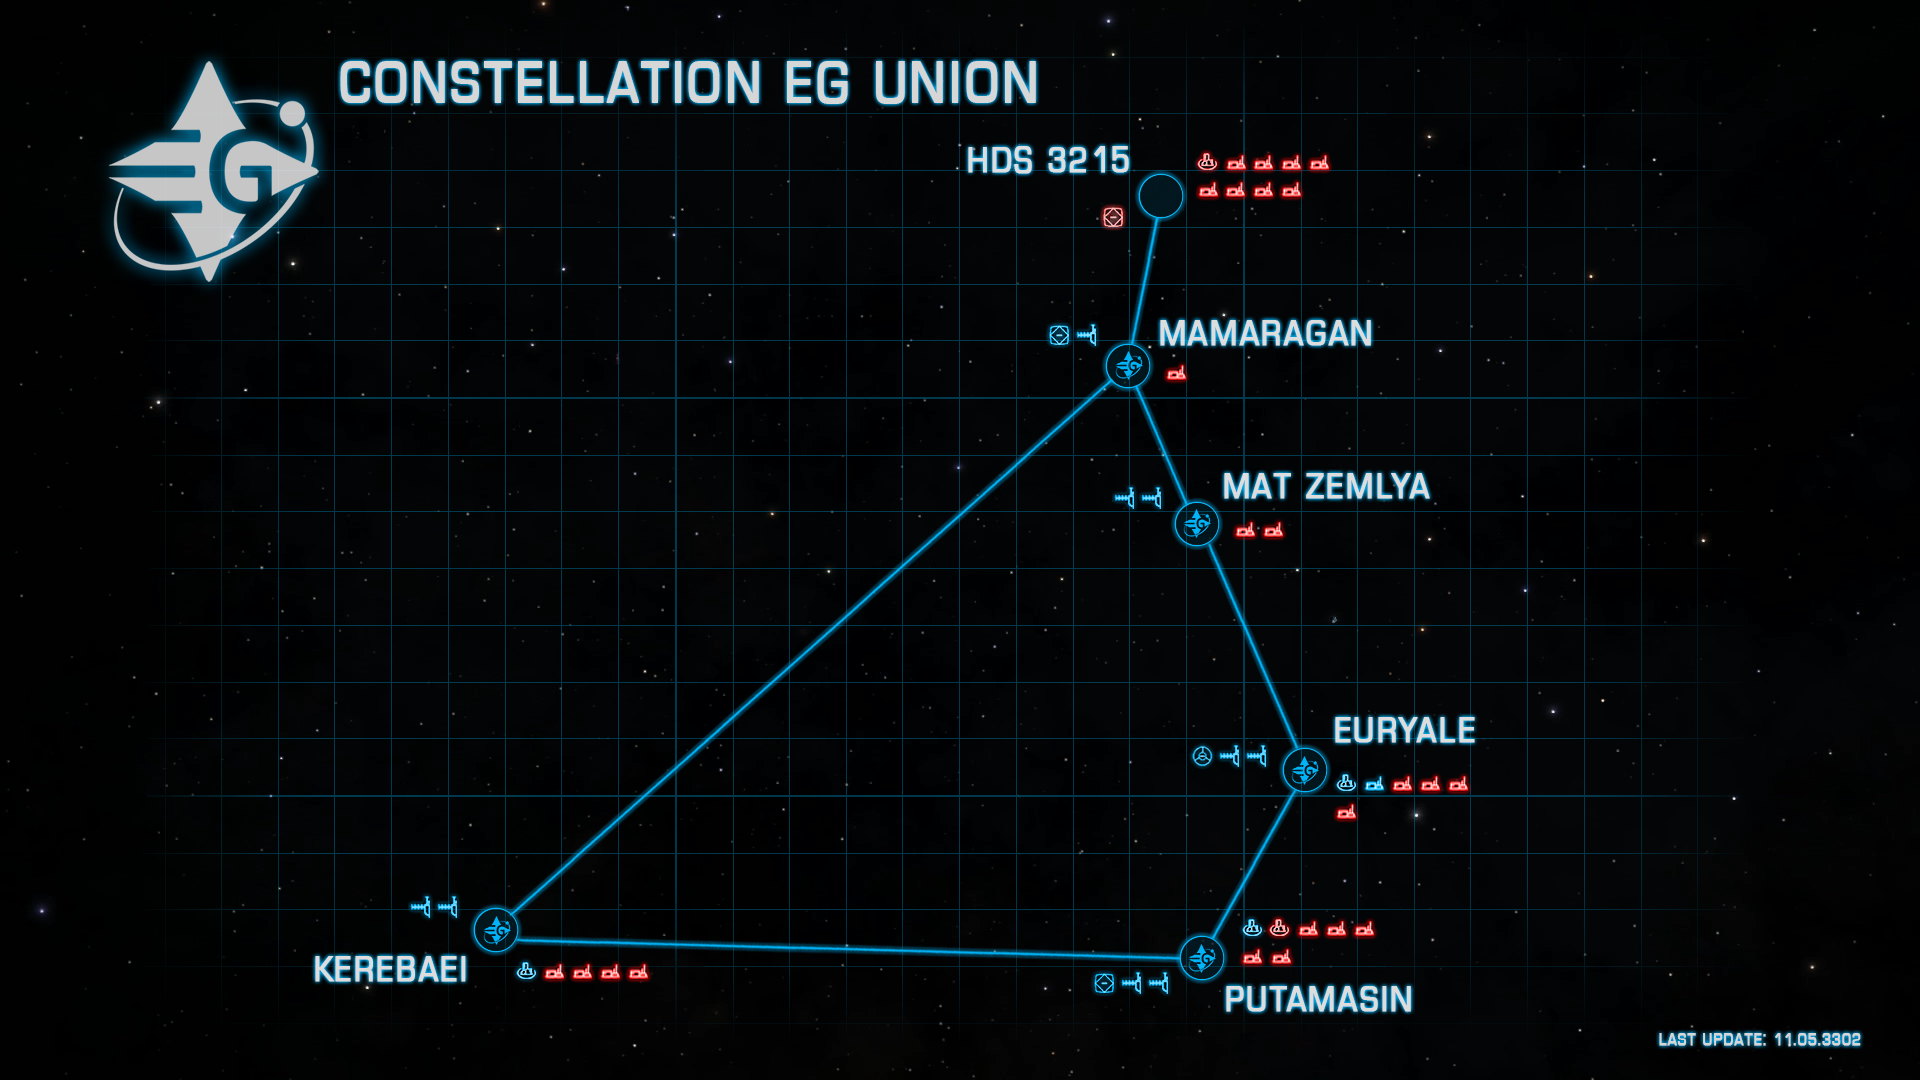
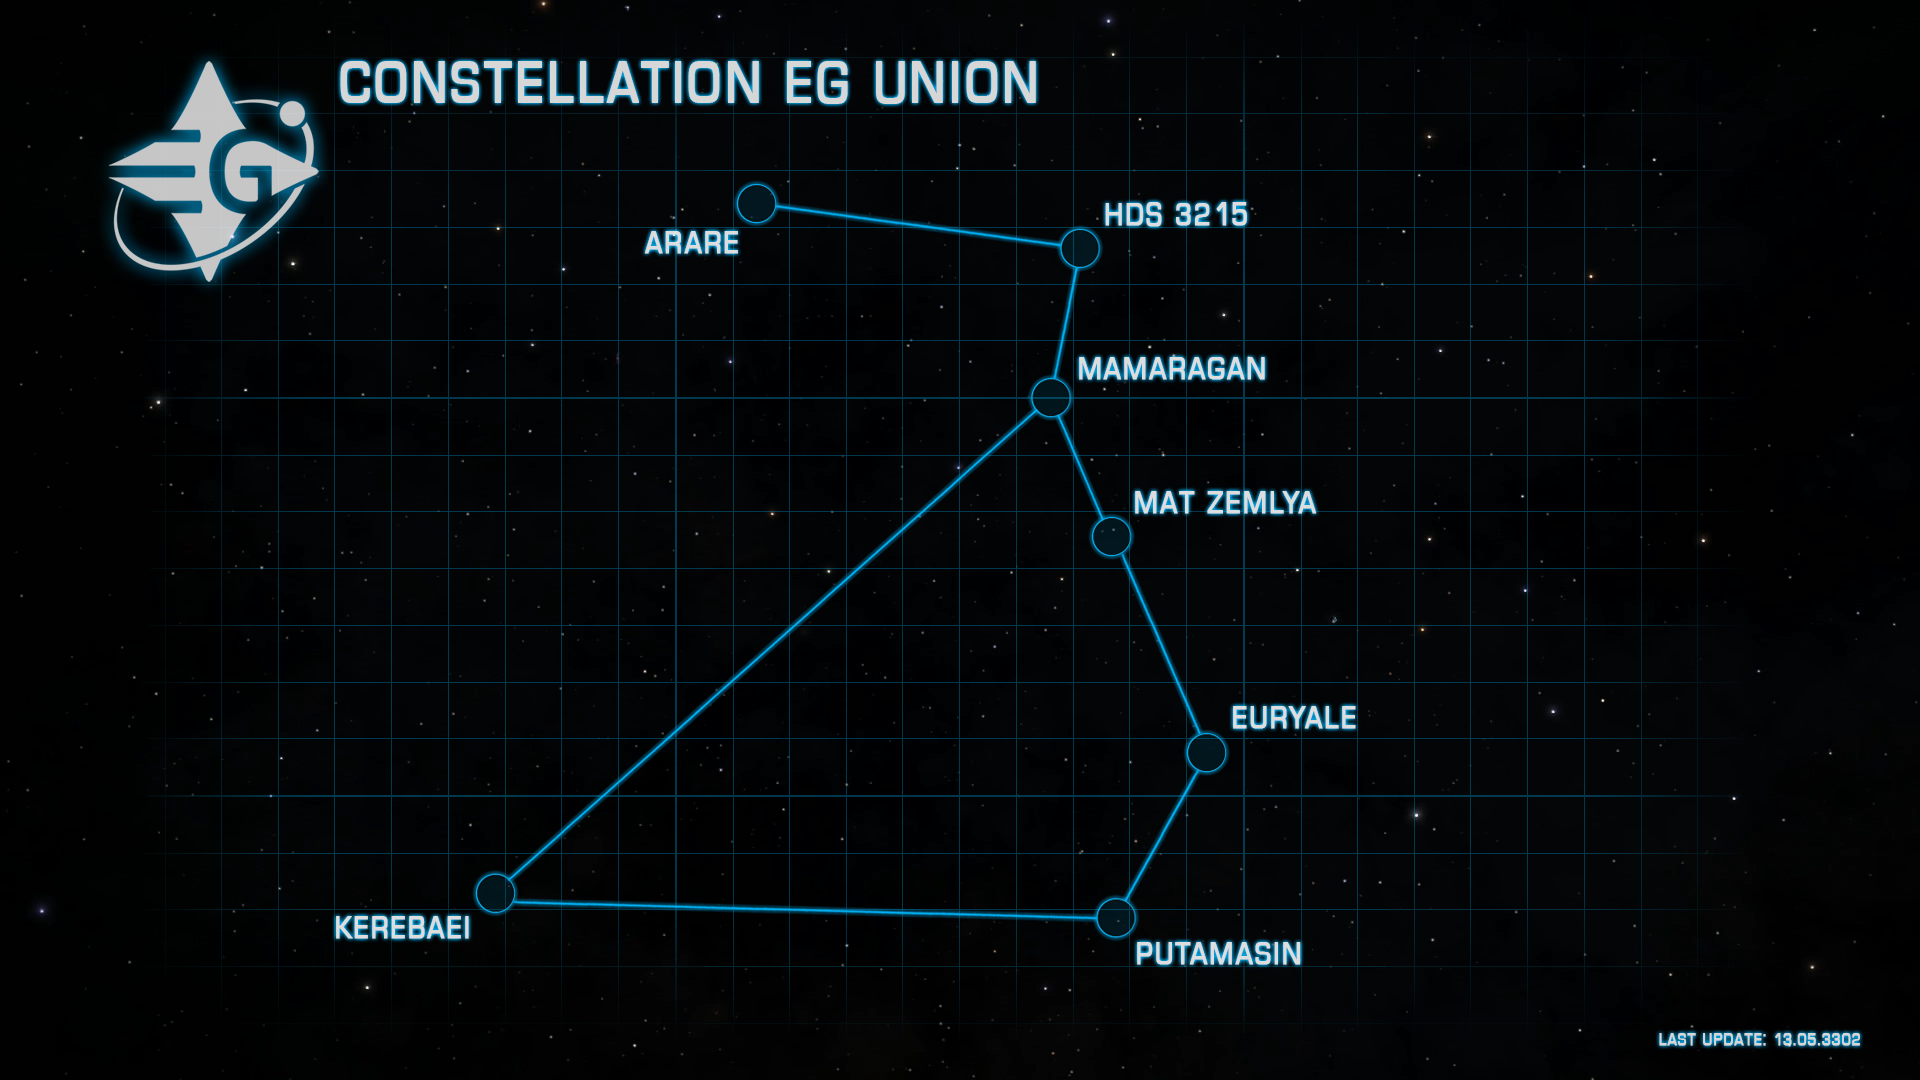
доработки раздела "преимущества"
- Созвездие скопировано локально
- Добавлена картинка станции и планеты
- Доработано описание и локализация

Changed region(s): [[0.1562, 0.1222, 0.7812, 0.9472], [0.3125, 0.1528, 0.5, 0.2444], [0.9375, 0.9472, 0.9688, 0.9778]]

diff --git a/index.html b/index.html
@@ -343,14 +343,12 @@
 <div class="container">
 
 	<div class="row">
-
+		<h2 id="features-header" class="white-text">Преимущества EG&nbsp;Union</h2>
+		<div class="colored-line"></div>
+	</div>
+	<div class="row">
 		<!-- RIGHT SIDE WITH BRIEF -->
 		<div class="col-md-6 left-align wow fadeInLeft animated" data-wow-offset="10" data-wow-duration="1.5s">
-			<h2 id="features-header" class="white-text">Преимущества EG&nbsp;Union</h2>
-
-			<div class="colored-line-left">
-			</div>
-
 			<ul class="feature-list">
 				<li><i class="icon_check_alt2"></i> <span id="features-1">Более 200 пилотов объединенных одной целью. Это весело!</span></li>
 				<li><i class="icon_check_alt2"></i> <span id="features-2">Разнообразные задачи от командования фракции</span></li>
@@ -359,16 +357,21 @@
 				<li><i class="icon_check_alt2"></i> <span id="features-5">Совместные полеты и сражения</span></li>
 				<li><i class="icon_check_alt2"></i> <span id="features-6">Помощь по игре</span></li>
 				<li><i class="icon_check_alt2"></i> <span id="features-7">Возможность развития для каждого участника</span></li>
-				<li><i class="icon_check_alt2"></i> <span id="features-8">Есть именная станция EG Main HQ, и даже своя планета: EG Prime!</span></li>
+				<li><i class="icon_check_alt2"></i> <span id="features-8">У нас есть именная планета и станция</span></li>
 			</ul>
 		</div>
 		<!-- /END RIGHT BRIEF -->
 
 		<div class="col-md-6 left-align wow fadeInRight animated" data-wow-offset="10" data-wow-duration="1.5s">
-			<h2 id="features-territory-header" class="white-text">Наша территория</h2>
+			<h3 id="features-territory-header">Наша территория</h2>
 			<div class="colored-lite-left"></div>
-			<div class="phone-image wow bounceIn animated constellation" data-wow-offset="120" data-wow-duration="1.5s">
-				<a target="_blank" href="http://i.imgur.com/8DPhLvQ.png"><img src="http://i.imgur.com/8DPhLvQ.png" alt="Созвездие EG Union"></a>
+			<div class="phone-image wow fadeInRight animated constellation" data-wow-offset="120" data-wow-duration="1.5s">
+				<a target="_blank" href="http://i.imgur.com/8DPhLvQ.png"><img src="images/egu-constellation.png" alt="Созвездие EG Union"></a>
+			</div>
+			<h3 id="features-hq-header">Наша штаб-квартира</h3>
+			<span id="hq-info"> </span>
+			<div class="phone-image wow fadeInRight animated constellation" data-wow-offset="120" data-wow-duration="1.5s">
+				<a target="_blank" href="images/egu-hq.jpg"><img src="images/egu-hq.jpg" alt="Наша штаб-квартира"></a>
 			</div>
 		</div>
 

diff --git a/js/index.localization.js b/js/index.localization.js
@@ -104,6 +104,9 @@ $('#selectLanguageDropdown').localizationTool({
         'id:features-territory-header': {
             'en_GB' : 'Our territory'
         },
+        'id:features-hq-header': {
+            'en_GB' : 'Our Headquarters'
+        },
         'id:features-1': {
             'en_GB' : 'More than 200 pilots united with one purpose! It\'s fun!'
         },
@@ -126,7 +129,10 @@ $('#selectLanguageDropdown').localizationTool({
             'en_GB' : 'Opportunity for every one to grow in ranks'
         },
         'id:features-8': {
-            'en_GB' : 'We have our own station EG MAIN HQ and planet EG PRIME!'
+            'en_GB' : 'We have our own planet and station'
+        },
+        'id:hq-info': {
+            'en_GB' : 'Euryale system, planet EG PRIME, station EG MAIN HQ'
         },
 
         'id:news-header': {
